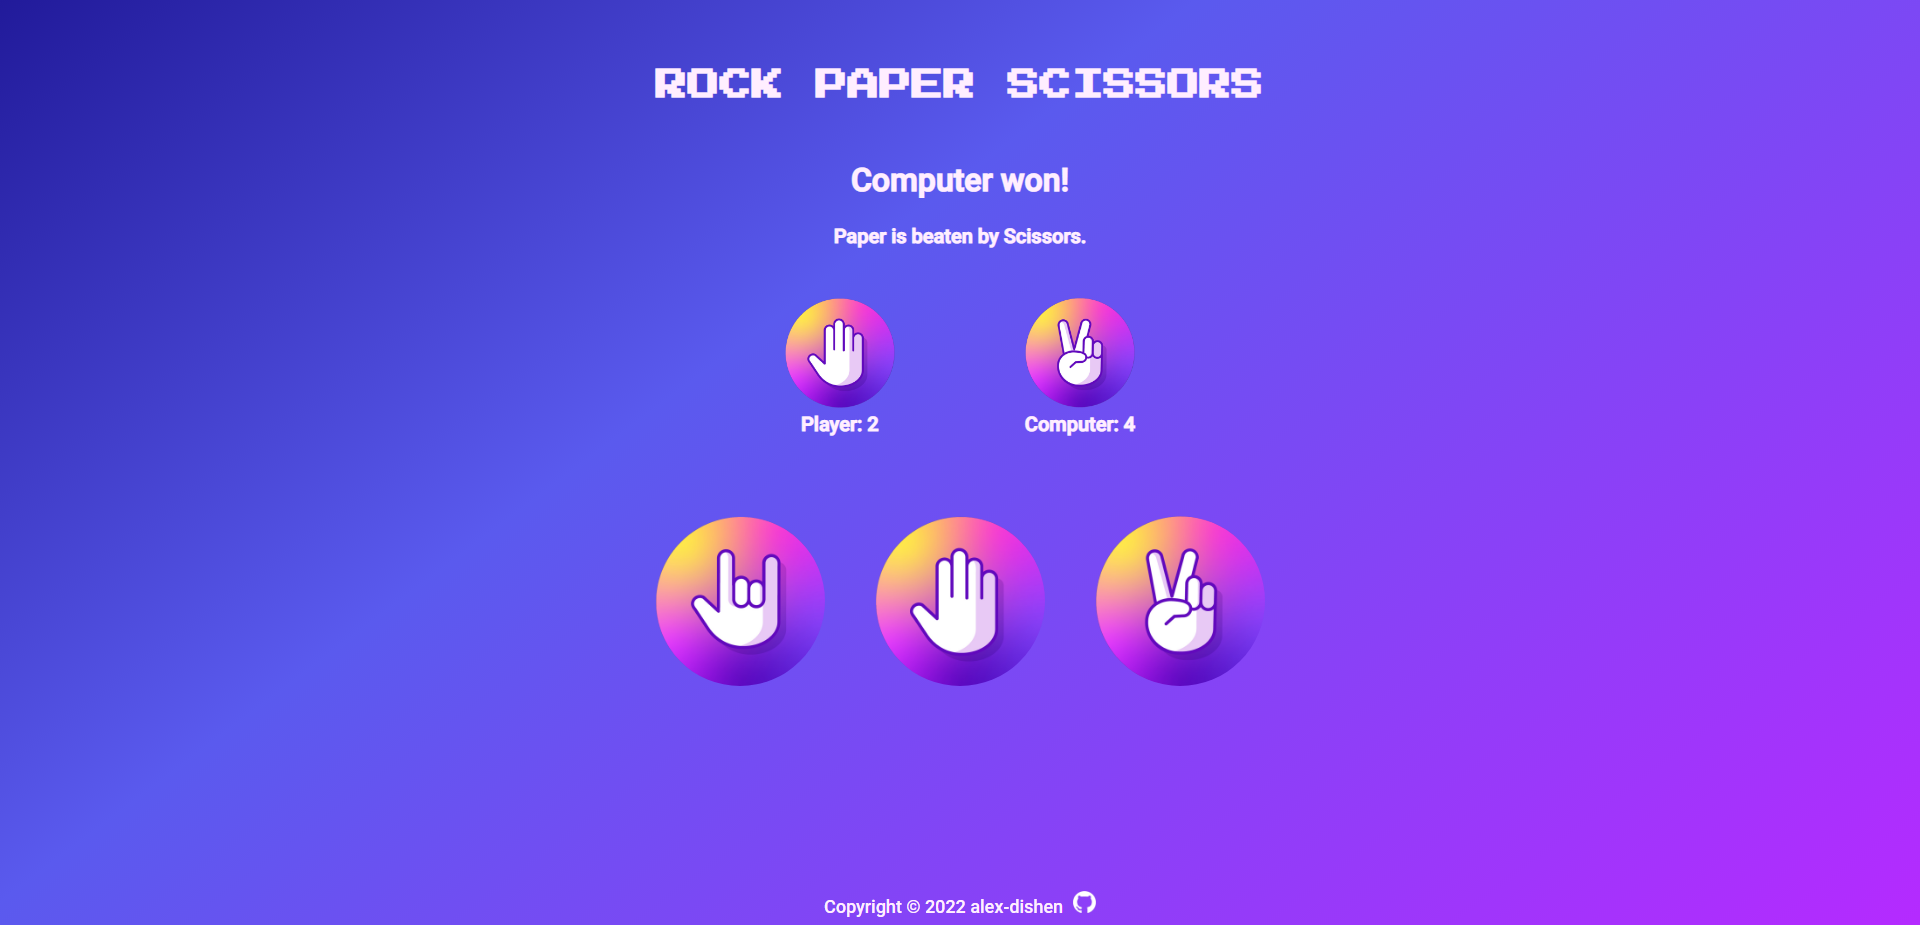
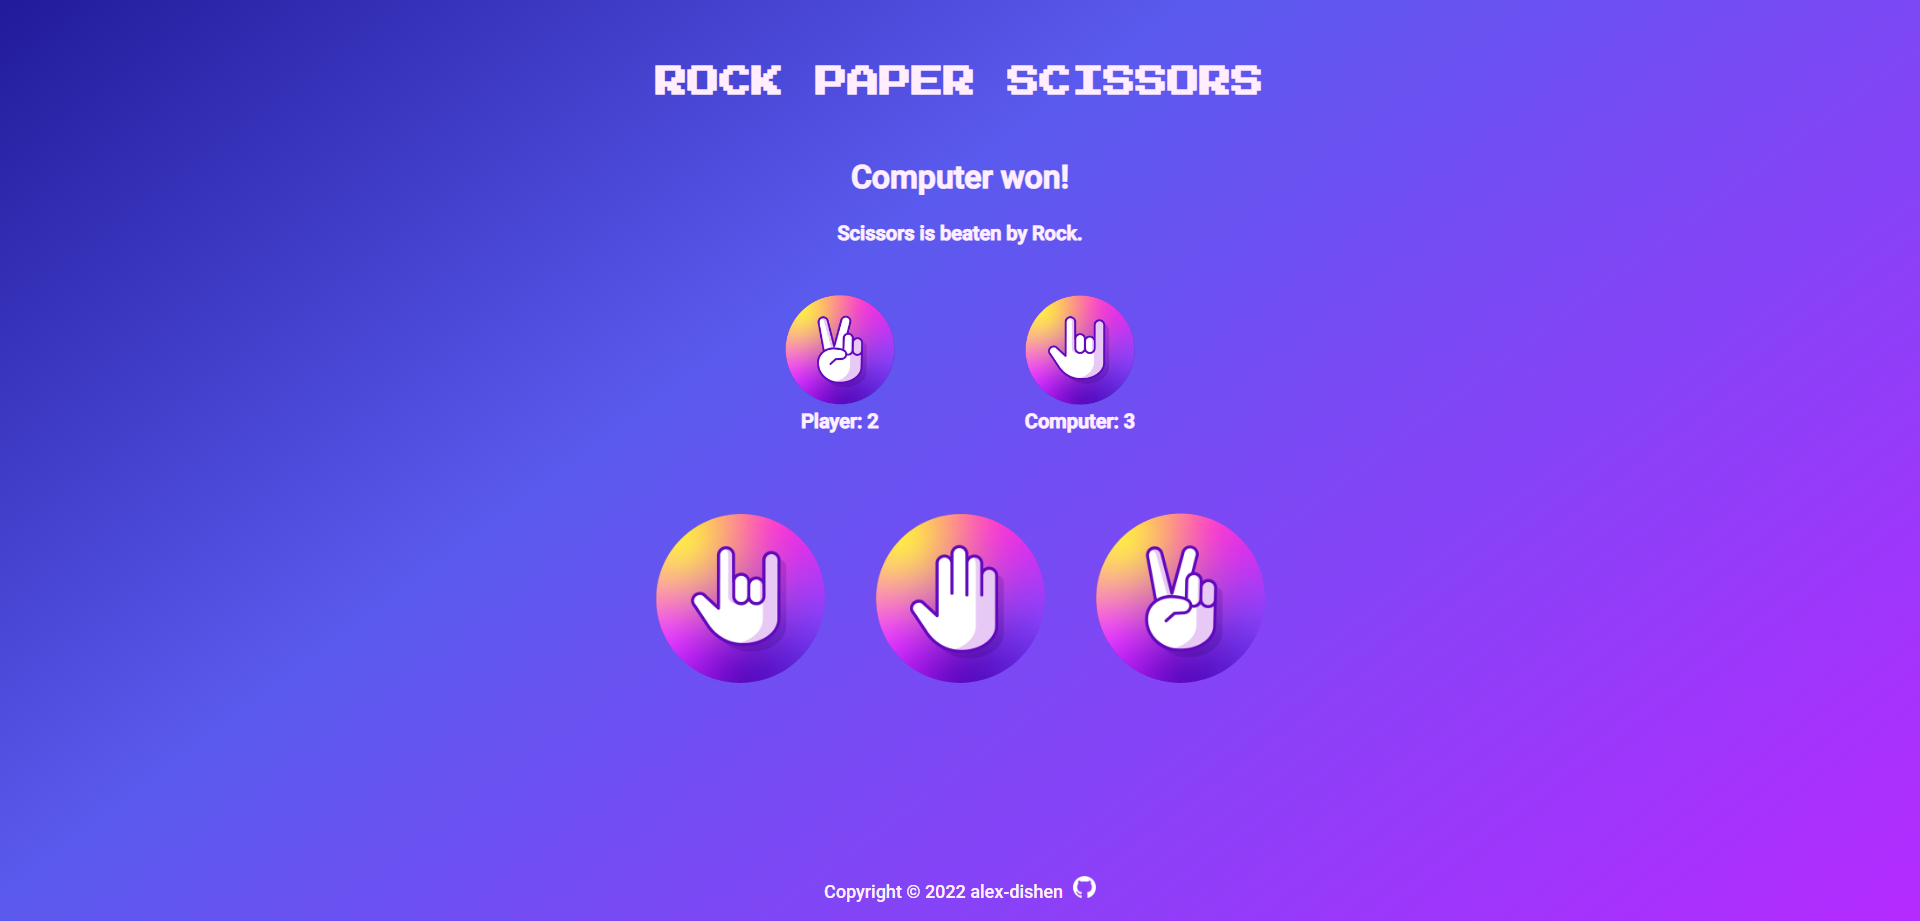
Change logic to restart game
Previously to restart the game you clicked on the button and the
entire page reloaded. To save the time now everything resets to it's
initial values

diff --git a/script.js b/script.js
@@ -63,24 +63,24 @@ function setWinner() {
 function changeChosenSigns(playerSelection, computerSelection) {
     switch (playerSelection) {
         case "Rock":
-            playerChoice.setAttribute("src", "./img/rock-hand.png");
+            playerChoice.setAttribute('src', './img/rock-hand.png');
             break;
         case "Paper": 
-            playerChoice.setAttribute("src", "./img/paper-hand.png");
+            playerChoice.setAttribute('src', './img/paper-hand.png');
             break;
         case "Scissors":
-            playerChoice.setAttribute("src", "./img/scissors-hand.png");
+            playerChoice.setAttribute('src', './img/scissors-hand.png');
             break;
     }
     switch (computerSelection) {
         case "Rock":
-            pcChoice.setAttribute("src", "./img/rock-hand.png");
+            pcChoice.setAttribute('src', './img/rock-hand.png');
             break;
         case "Paper": 
-            pcChoice.setAttribute("src", "./img/paper-hand.png");
+            pcChoice.setAttribute('src', './img/paper-hand.png');
             break;
         case "Scissors":
-            pcChoice.setAttribute("src", "./img/scissors-hand.png");
+            pcChoice.setAttribute('src', './img/scissors-hand.png');
             break;
     }
 }
@@ -93,16 +93,30 @@ function decideWhoWon() {
     }
 }
 
+function removeWinnerWindow() {
+    overlay.style.display = 'none';
+    modal.classList.remove('active');
+}
+
+function resetGame() {
+    scoreInfo.textContent = 'Choose your weapon';
+    scoreMessage.textContent = 'First to score 5 points wins the game';
+    playerChoice.setAttribute('src', 'img/question-mark.png');
+    pcChoice.setAttribute('src', 'img/question-mark.png');
+    userScore.textContent = 'Player: 0';
+    pcScore.textContent = 'Computer: 0';
+    playerScore = 0;
+    computerScore = 0;
+    removeWinnerWindow();
+}
+
 // Opens a window who won and asks to restart the game
 function stateAbsoluteWinner() {
         overlay.style.display = 'block';
         modal.classList.add('active')
         winnerPara.textContent = decideWhoWon();
-        btnRestart.addEventListener('click', () => {window.location.reload();})
-        overlay.addEventListener('click', () => {
-            overlay.style.display = 'none';
-            modal.classList.remove('active');
-        })
+        btnRestart.addEventListener('click', resetGame);
+        overlay.addEventListener('click', removeWinnerWindow)
 }
 
 // Runs main logic of this app

diff --git a/style.css b/style.css
@@ -75,6 +75,7 @@ p {
 .buttons {
     display: flex;
     gap: 50px;
+    margin-bottom: 45px;
 }
 
 .rock, .paper, .scissors {
@@ -119,6 +120,7 @@ footer {
     text-align: center;
     padding: 10px;
     font-size: 18px;
+    padding-bottom: 22px;
 }
 
 .github {
